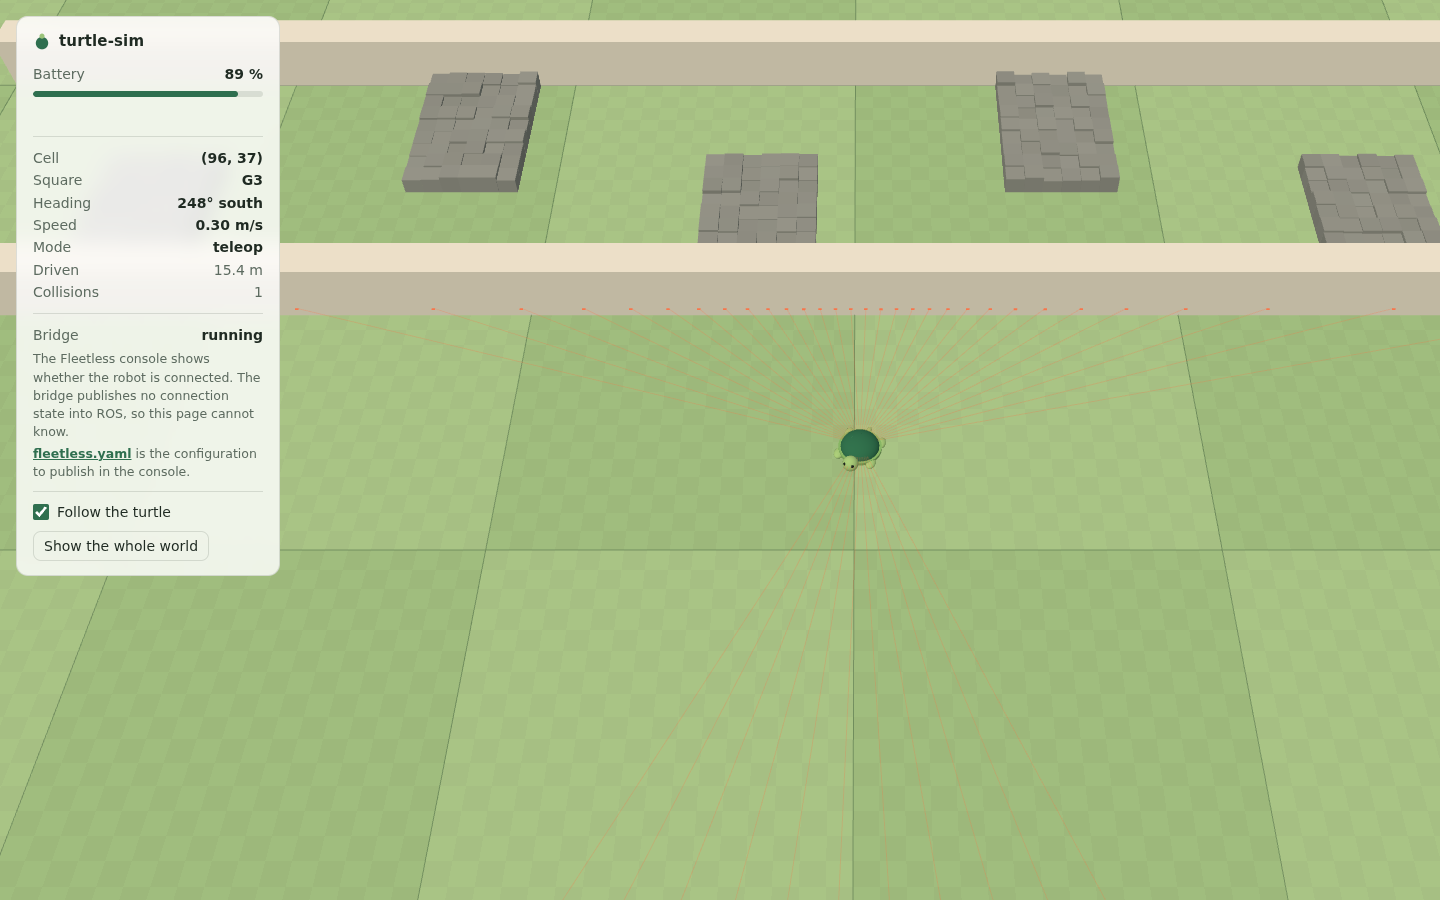
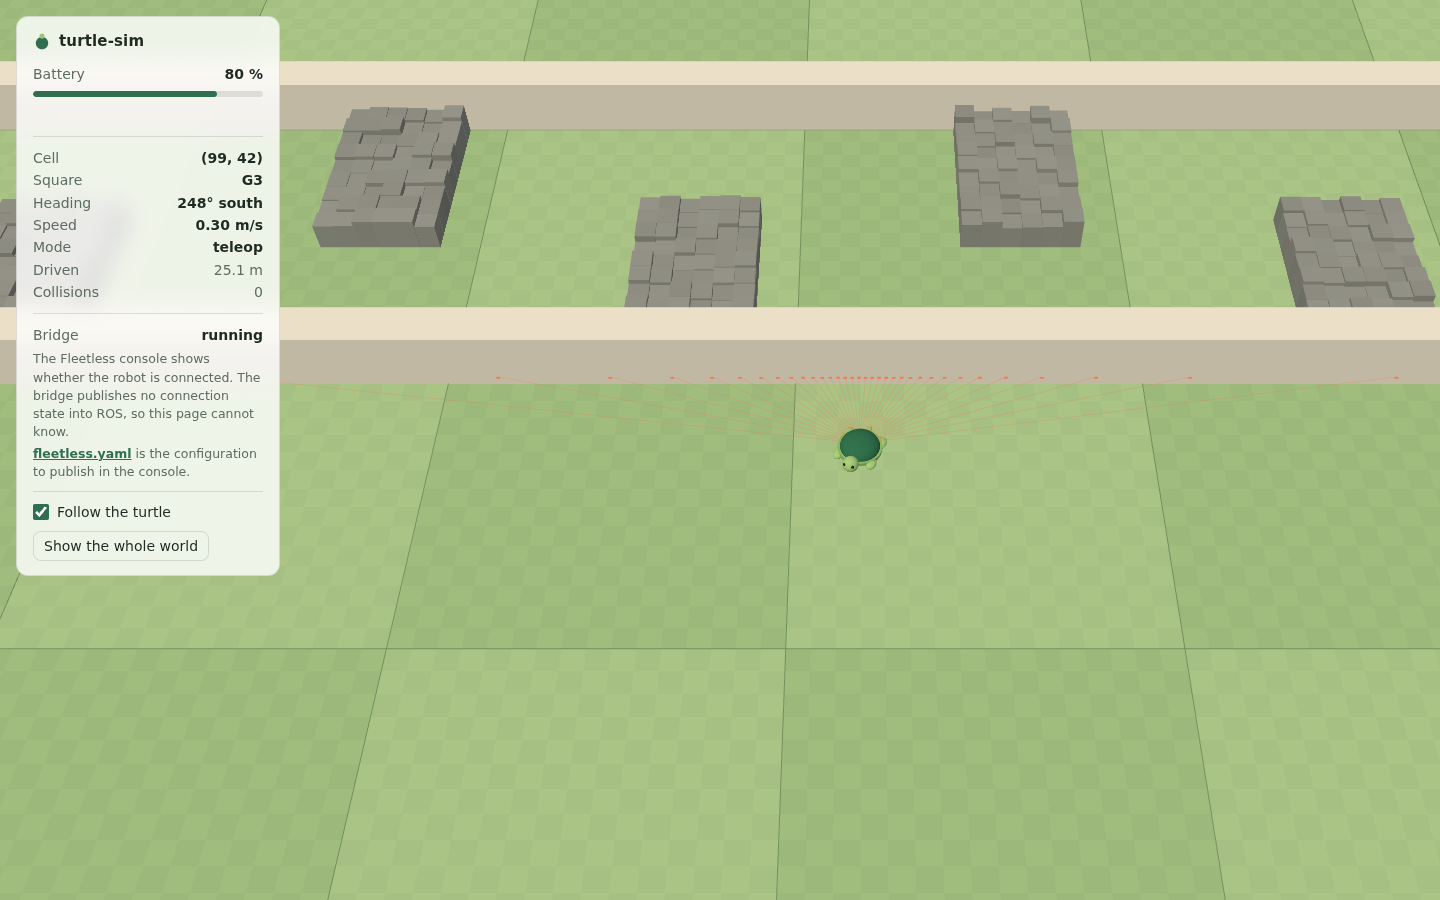
fix(viewer): one rock height in one world
The view drew a rock 0.09 m tall and the turtle's `eye` camera 0.15 m. A
rock in `eye` has to stand above the eye's 0.1 m, or the turtle would
look over it, so the view follows: 0.15 m, give or take the little that
keeps no two rocks alike there.

The README's sentence about heights read as if the wall's 0.3 m were the
eye's alone. It now says what holds for both: a wall stands 0.3 m tall
and a rock 0.15 m, in `eye` as in the view, and only for the looking.

A test holds the view's two heights and that sentence against the
cameras' constants.

Part of fleetless/fleetless#1104

Agent: orca/builder ctx_06226c92c6c1

Changed region(s): [[0.1875, 0.0, 1.0, 0.4356], [0.0, 0.2178, 0.0312, 0.4356], [0.0, 0.0311, 0.0312, 0.1556]]

diff --git a/ros/fleetless_turtle_viewer/web/world.js b/ros/fleetless_turtle_viewer/web/world.js
@@ -20,9 +20,10 @@ export const KIND = { FREE: 0, WALL: 1, ROCK: 2, WATER: 3, PAD: 4 };
 const SQUARE_CELLS = 16;
 
 // How the kinds look. Heights are for the eye only: for the simulator a wall,
-// a rock and a pond block alike.
+// a rock and a pond block alike. The turtle's `eye` camera draws both as tall
+// as this page does, so one world has one look.
 const WALL_HEIGHT_M = 0.3;
-const ROCK_HEIGHT_M = 0.09;
+const ROCK_HEIGHT_M = 0.15;
 const FRAME_WIDTH_M = 1.3;
 // What is painted on the floor lies this far above it.
 const FLAT_M = 0.004;

diff --git a/test/test_page.py b/test/test_page.py
@@ -9,6 +9,7 @@ from pathlib import Path
 
 import pytest
 
+from fleetless_turtle_cameras.render import constants as look
 from fleetless_turtle_sim.core import constants as c
 
 ROOT = Path(__file__).resolve().parent.parent
@@ -113,3 +114,16 @@ def test_notice_names_what_is_vendored():
     assert sorted(path.name for path in VENDOR.iterdir()) == sorted(VENDORED)
     for name in VENDORED:
         assert f"ros/fleetless_turtle_viewer/web/vendor/{name}" in notice
+
+
+def test_the_view_draws_a_wall_and_a_rock_as_tall_as_the_eye_camera_does():
+    """One world, one look: a rock is no taller on the page than in the turtle's own picture."""
+    world = WEB / "world.js"
+    assert number(world, "WALL_HEIGHT_M") == look.WALL_HEIGHT_M
+    assert number(world, "ROCK_HEIGHT_M") == look.ROCK_HEIGHT_M
+    # And the README's sentence about heights says both numbers.
+    readme = " ".join((ROOT / "README.md").read_text().split())
+    assert (
+        f"A wall stands {look.WALL_HEIGHT_M} m tall and a rock {look.ROCK_HEIGHT_M} m, "
+        "in `eye` as in the view"
+    ) in readme

diff --git a/ros/fleetless_turtle_cameras/fleetless_turtle_cameras/render/constants.py b/ros/fleetless_turtle_cameras/fleetless_turtle_cameras/render/constants.py
@@ -73,11 +73,13 @@ EYE_NEAR_M = 0.01
 """No face is nearer than this: a distance is divided by."""
 
 WALL_HEIGHT_M = 0.3
-"""A wall is a tall block. As tall as the view draws it."""
+"""A wall is a tall block."""
 
 ROCK_HEIGHT_M = 0.15
 """A rock is a low block: half a wall, and still above the turtle's eye, so
-it hides the floor behind it and a wall behind it rises over it."""
+it hides the floor behind it and a wall behind it rises over it.
+
+The view draws both as tall as this; a test keeps the two in step."""
 
 FOG_POWER = 2.0
 """How haze grows with distance: little nearby, all of it at the range."""

diff --git a/README.md b/README.md
@@ -258,8 +258,8 @@ not this lucky.
 grid the laser reads: no lens, no noise, no light but a sun that never
 moves. `eye` casts one ray per column. It sees across water, which is flat,
 and over a rock to the wall behind it, and that is all the depth there is.
-A wall is 0.3 m tall and a rock 0.15 m for the eye only; to the turtle both
-block alike.
+A wall stands 0.3 m tall and a rock 0.15 m, in `eye` as in the view, and
+only for the looking: to the turtle both block alike.
 
 **The legs are for show.** The turtle is a circle on two wheels. Its legs
 swing with the distance each wheel has rolled, and it would drive as well
